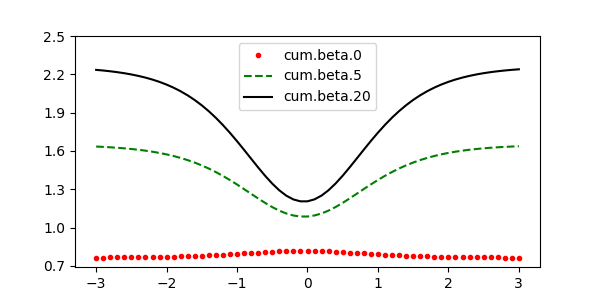
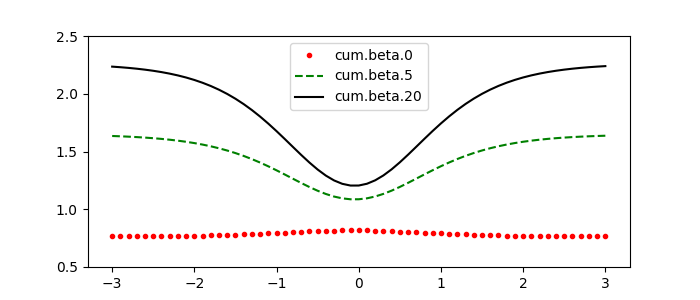
Train SMB and HML factor returns again
Train SMB and HML factor returns again

diff --git a/estimation/train_portfolio_returns.py b/estimation/train_portfolio_returns.py
@@ -11,7 +11,7 @@ from DataLoader import DataLoader
 from nonlinear_capm_beta.figures.plot_cum_beta import plot_cum_beta
 
 
-def train_portfolio_returns(filename, portfolio, no_lags):
+def train_portfolio_returns(filename, portfolio, no_lags, zero_init=True):
 
     print("*************************************************")
     print(" Train Portfolio Returns")
@@ -45,15 +45,15 @@ def train_portfolio_returns(filename, portfolio, no_lags):
     # Iterate for portfolios
     if portfolio is None:
         for col in df_portfolios.columns[1:]:
-            train_portfolio_helper(filename, df_portfolios[['date', col]], df_markets)
+            train_portfolio_helper(filename, df_portfolios[['date', col]], df_markets, zero_init)
 
     else:
-        train_portfolio_helper(filename, df_portfolios[['date', portfolio]], df_markets)
+        train_portfolio_helper(filename, df_portfolios[['date', portfolio]], df_markets, zero_init)
 
     return
 
 
-def train_portfolio_helper(filename, pf_returns, mktrf):
+def train_portfolio_helper(filename, pf_returns, mktrf, zero_init):
 
     # drop missing returns
     idx_missing = (pf_returns.iloc[:, 1] < -99)
@@ -91,7 +91,6 @@ def train_portfolio_helper(filename, pf_returns, mktrf):
 
     # Initialize the trainer
     max_retries = 5
-    zero_init = True
 
     for attempt_id in range(max_retries):
 
@@ -136,6 +135,8 @@ def train_portfolio_helper(filename, pf_returns, mktrf):
     beta_convexity = (beta20[0] + beta20[-1]) / 2 - beta20[int((len(beta20) - 1) / 2)]
 
     # Save the results to SQL server
+    sql_loader = DataLoader(connect=True)
+
     query = """
         select max(id)
         from beta_portfolios
@@ -164,16 +165,13 @@ def train_portfolio_helper(filename, pf_returns, mktrf):
         beta_average, beta_delay, beta_convexity))
     print("")
 
+    sql_loader.close()
+
     return
 
 
-# Global variables
-sql_loader = None
-
 # call the main function when called directly
 if __name__ == "__main__":
-
-    sql_loader = DataLoader(connect=True)
 
     # # default parameters
     # filename = 'portfolio_size_daily'
@@ -193,12 +191,13 @@ if __name__ == "__main__":
     # # Estimate beta parameters
     # train_portfolio_returns(filename, portfolio, no_lags)
 
-    train_portfolio_returns('portfolio_size_daily', 'd1', 20)
-    train_portfolio_returns('portfolio_size_daily', 'd10', 20)
-    train_portfolio_returns('portfolio_value_daily', 'd1', 20)
-    train_portfolio_returns('portfolio_value_daily', 'd10', 20)
+    # train_portfolio_returns('portfolio_size_daily', 'd1', 20)
+    # train_portfolio_returns('portfolio_size_daily', 'd10', 20)
+    # train_portfolio_returns('portfolio_value_daily', 'd1', 20)
+    # train_portfolio_returns('portfolio_value_daily', 'd10', 20)
+
+    train_portfolio_returns('ff3factors_daily', 'smb', 20)
+    train_portfolio_returns('ff3factors_daily', 'hml', 20)
 
     # Terminate
-    sql_loader.close()
-
     print('** beep **\a')

diff --git a/estimation/repeat_specific_portfolio.py b/estimation/repeat_specific_portfolio.py
@@ -6,17 +6,15 @@ from train_portfolio_returns import train_portfolio_returns
 from nonlinear_capm_beta.figures.plot_cum_beta import plot_cum_beta
 
 
-def repeat_specific_portfolio(freq="monthly", portfolio='small-growth'):
+def repeat_specific_portfolio(filename, portfolio, no_lags):
 
     print("************************************************")
     print(" Repeat the Training of Portfolio Returns")
-    print(" freq: {}".format(freq))
+    print(" filename: {}".format(filename))
     print(" portfolio: {}".format(portfolio))
     print("************************************************")
 
-    loader = DataLoader(connect=True)
-
-    no_repeats = 100
+    no_repeats = 10
 
     for repeat_id in range(0, no_repeats):
 
@@ -24,27 +22,14 @@ def repeat_specific_portfolio(freq="monthly", portfolio='small-growth'):
         print("==== Repeat ID: {}/{} ====".format(repeat_id, no_repeats))
         print("")
 
-        train_portfolio_returns(freq, portfolio)
+        train_portfolio_returns(filename, portfolio, no_lags, zero_init=False)
 
-        plot_cum_beta(freq, portfolio)
-
-        source = "outputs/plot_cum_beta_{}_{}.csv".format(freq, portfolio)
-        dest = "outputs/plot_cum_beta_{}_{}_{:02d}.csv".format(freq, portfolio, repeat_id)
-
-        shutil.move(source, dest)
-
-        loader.move_portfolio_params_to_the_repeated(freq, portfolio, repeat_id)
-
-    loader.close()
+    return
 
 
 # call the main function when called directly
 if __name__ == "__main__":
-    repeat_specific_portfolio("daily", "smb")
-    # repeat_specific_portfolio("daily", "hml")
-    # repeat_specific_portfolio("monthly", "small-growth")
-    # repeat_specific_portfolio("monthly", "small-value")
-    # repeat_specific_portfolio("monthly", "large-growth")
-    # repeat_specific_portfolio("monthly", "smb")
-    # repeat_specific_portfolio("monthly", "hml")
-    # repeat_specific_portfolio("monthly", "small")
+
+    repeat_specific_portfolio('ff3factors_daily', 'smb', 20)
+    repeat_specific_portfolio('ff3factors_daily', 'hml', 20)
+

diff --git a/figures/plot_cum_beta.py b/figures/plot_cum_beta.py
@@ -80,7 +80,7 @@ def plot_cum_beta_helper(filename, portfolio, id, param):
     del trainer
 
     # draw the cumulative beta graph using pyplot
-    plt.figure(figsize=(6,3))
+    plt.figure(figsize=(7,3))
 
     plt.plot(mktrf, output_beta[:,0], 'r.', label='cum.beta.0')
     plt.plot(mktrf, output_beta[:,5], 'g--', label='cum.beta.5')
@@ -91,8 +91,10 @@ def plot_cum_beta_helper(filename, portfolio, id, param):
 
     if str.find(filename, 'value') >= 0:
         plt.yticks(np.arange(0.8,2.01,0.2))
-    else:
-        plt.yticks(np.arange(0.7,2.51,0.3))
+    elif str.find(filename, 'size') >= 0:
+        plt.yticks(np.arange(0.5,2.51,0.5))
+    elif str.find(filename, 'ff3factors') >= 0:
+        plt.yticks(np.arange(-.4, .61, 0.2))
 
     plt.savefig('outputs/plot_cum_beta_{}.png'.format(plot_title))
     plt.close()
@@ -107,10 +109,12 @@ if __name__ == "__main__":
 
     sql_loader = DataLoader(connect=True)
 
-    plot_cum_beta('portfolio_size_daily', 'd1')
-    plot_cum_beta('portfolio_size_daily', 'd10')
-    plot_cum_beta('portfolio_value_daily', 'd1')
-    plot_cum_beta('portfolio_value_daily', 'd10')
+    # plot_cum_beta('portfolio_size_daily', 'd1')
+    # plot_cum_beta('portfolio_size_daily', 'd10')
+    # plot_cum_beta('portfolio_value_daily', 'd1')
+    # plot_cum_beta('portfolio_value_daily', 'd10')
+
+    plot_cum_beta('ff3factors_daily', None)
 
     sql_loader.close()
 
